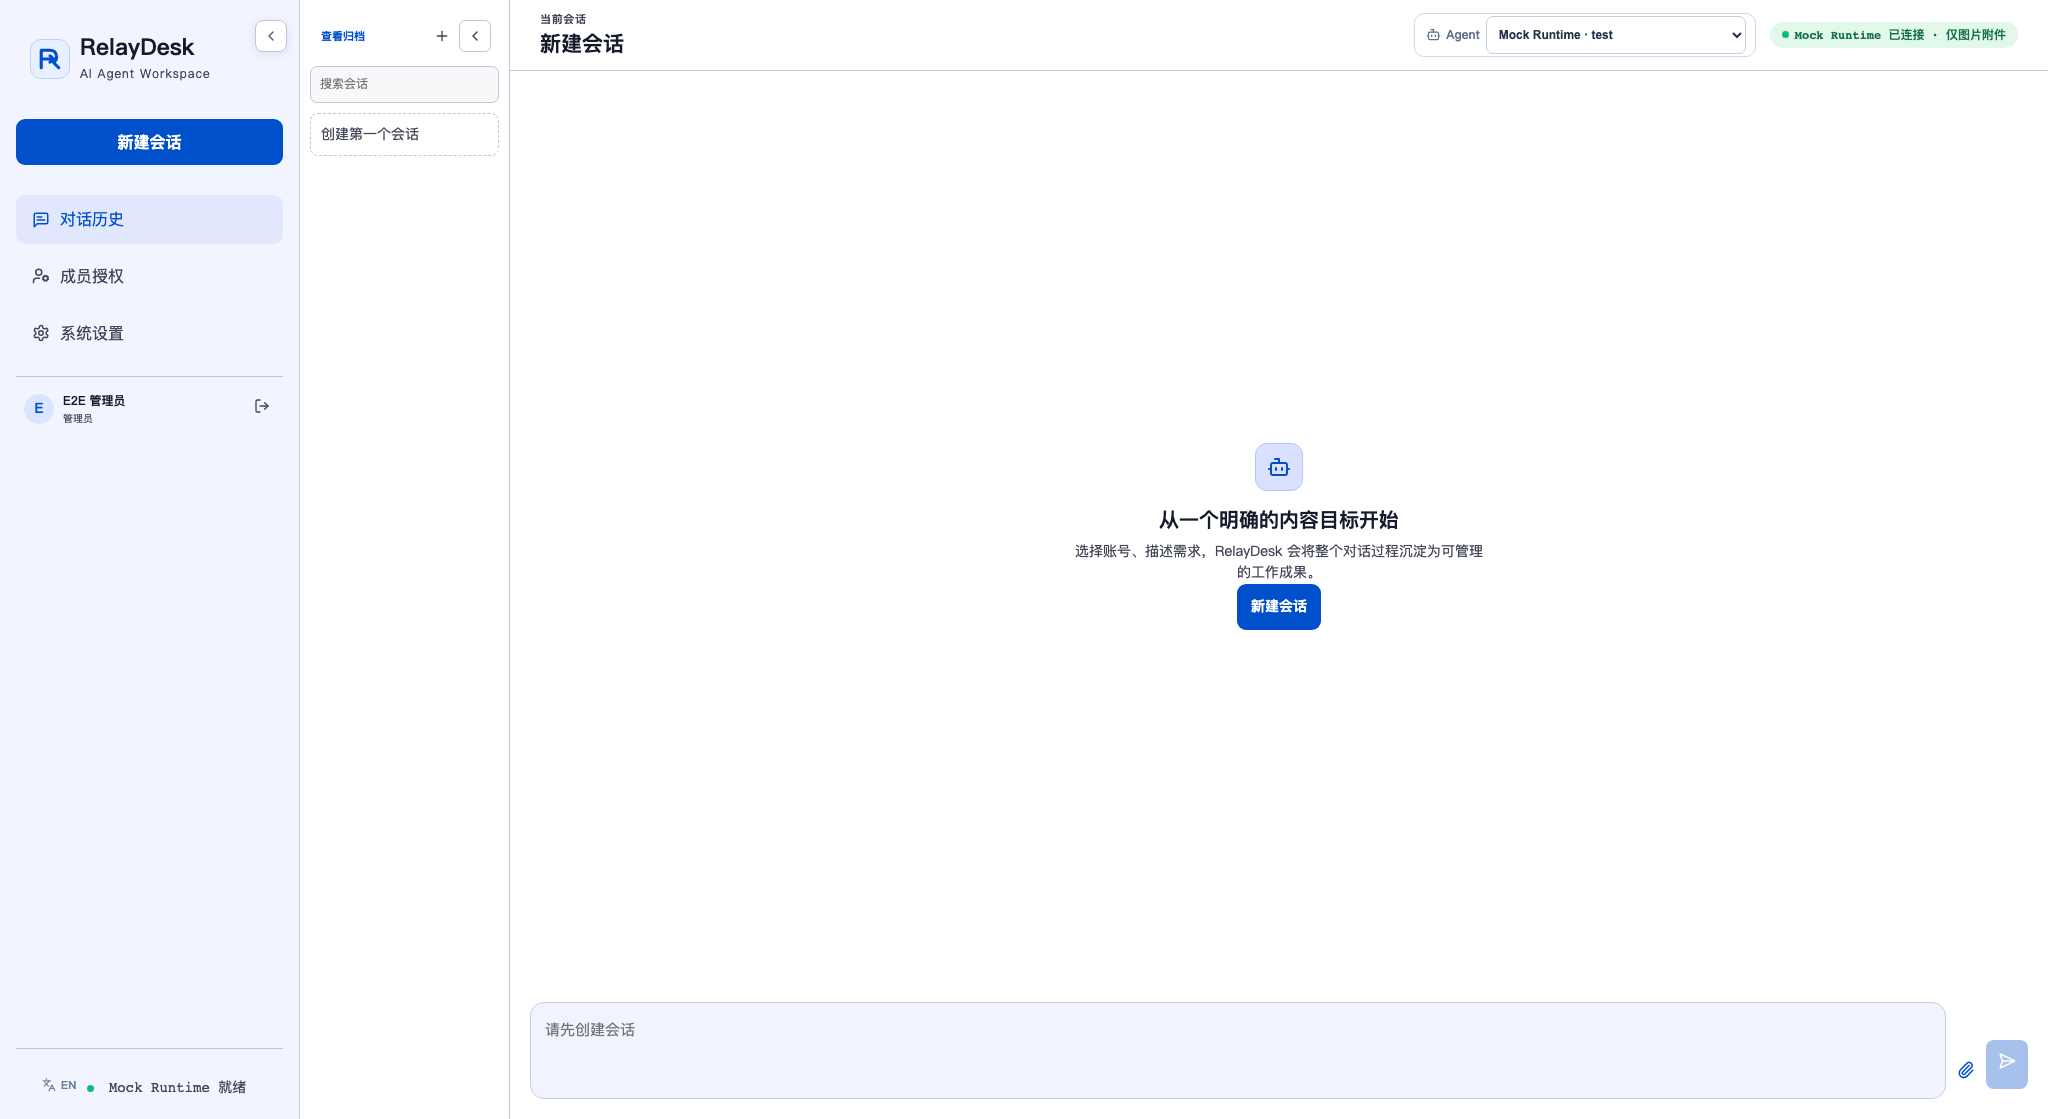
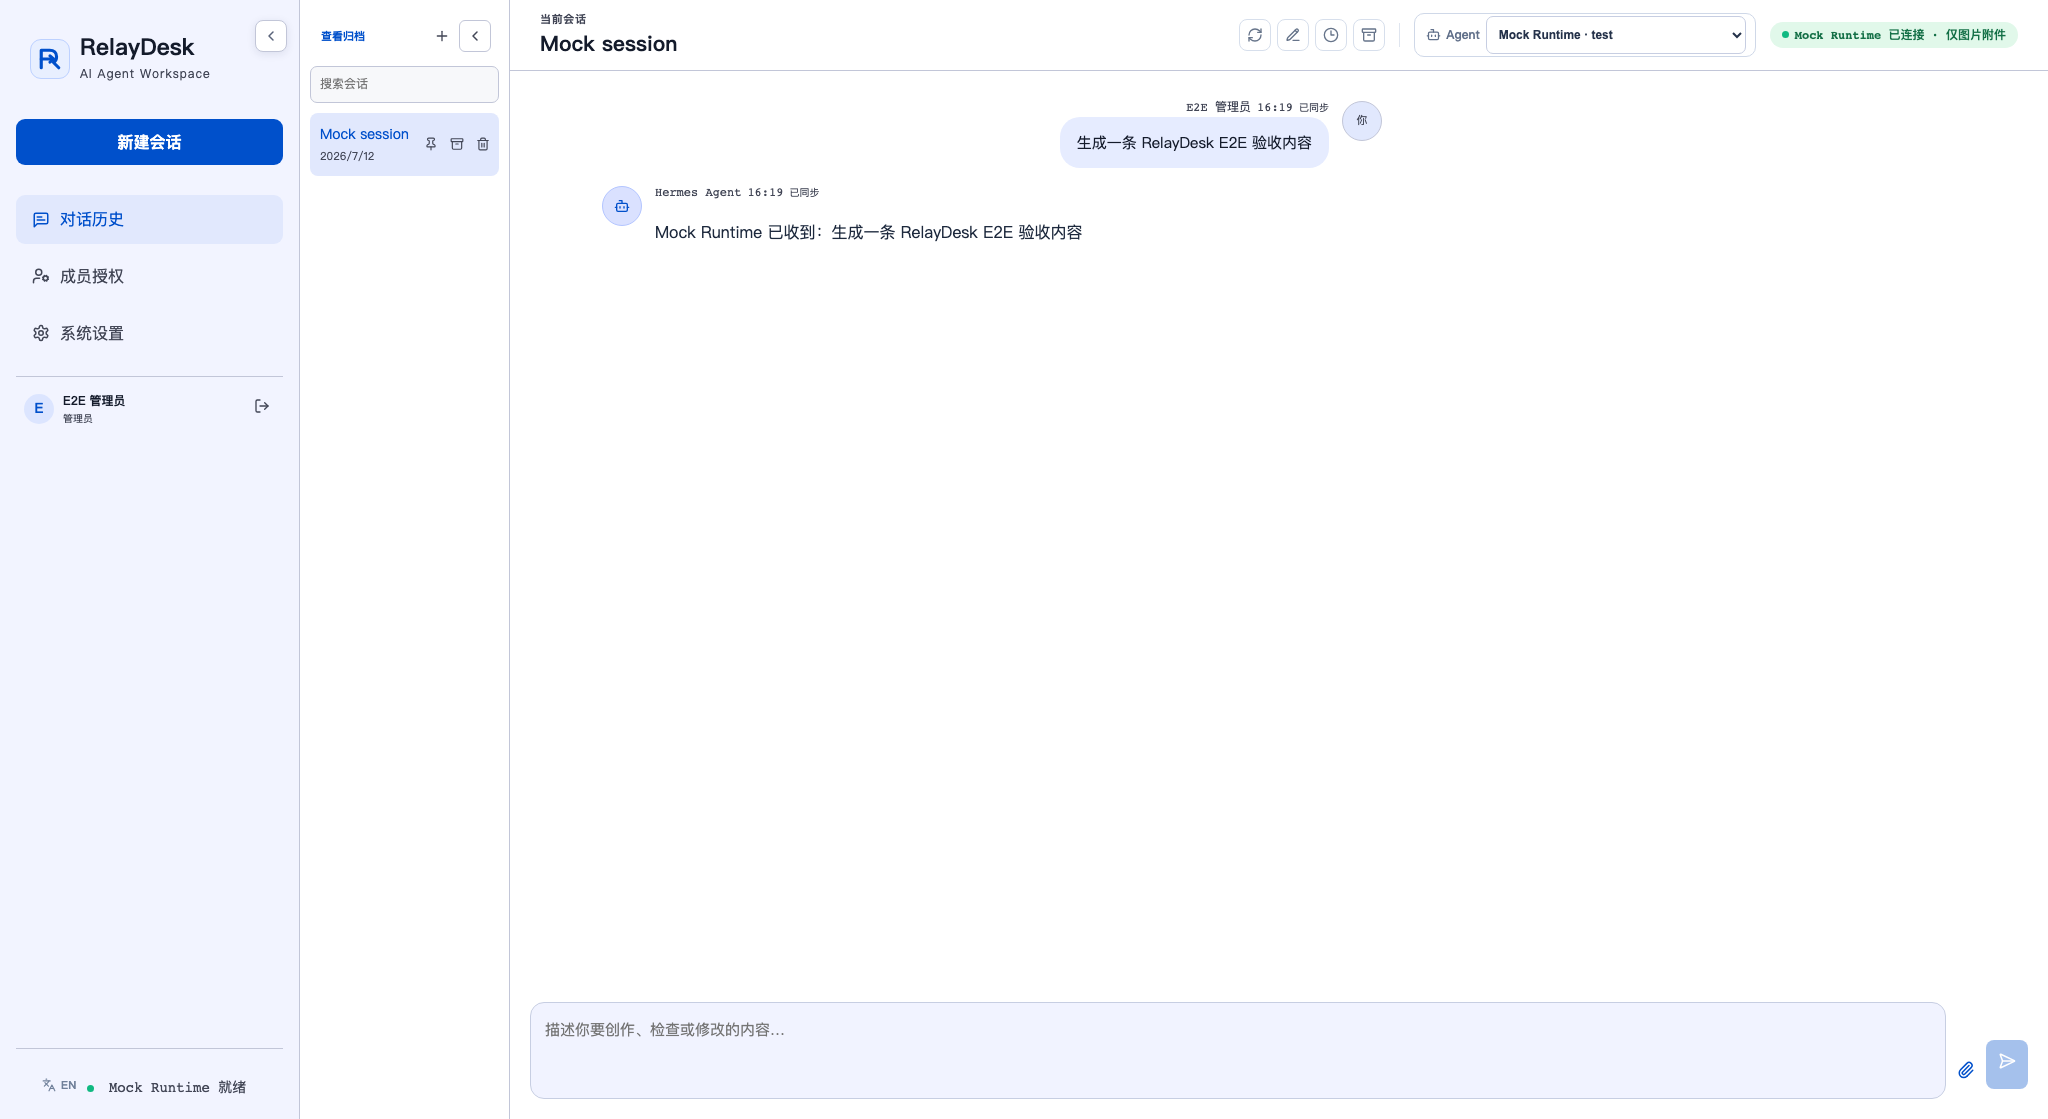
docs: add localized chat showcase screenshots

diff --git a/tests/e2e/core-workflow.spec.ts b/tests/e2e/core-workflow.spec.ts
@@ -10,6 +10,7 @@ test("login page localizes the product story and form together", async ({ page }
   await expect(page.getByRole("heading", { name: "进入工作台" })).toBeVisible();
   await expect(page.getByText("需求评审会议纪要.md")).toBeVisible();
   await expect(page.getByLabel("成员姓名")).toBeVisible();
+  if (process.env.RELAYDESK_CAPTURE_README === "1") await page.screenshot({ path: "docs/images/login-zh.png", fullPage: true });
 });
 
 test("operator can chat, persist history, save content, and search it", async ({ page }) => {
@@ -33,7 +34,6 @@ test("operator can chat, persist history, save content, and search it", async ({
   expect(historyRail).toBeTruthy();
   expect(chatCanvas).toBeTruthy();
   expect(historyRail!.x).toBeLessThan(chatCanvas!.x);
-  if (process.env.RELAYDESK_CAPTURE_README === "1") await page.screenshot({ path: "docs/images/chat-zh.png", fullPage: true });
   await page.getByRole("button", { name: "折叠侧边栏" }).click();
   await expect(page.locator(".sidebar")).toHaveClass(/collapsed/);
   await page.getByRole("button", { name: "展开侧边栏" }).click();
@@ -51,6 +51,7 @@ test("operator can chat, persist history, save content, and search it", async ({
   await composer.fill("生成一条 RelayDesk E2E 验收内容");
   await composer.press("Enter");
   await expect(page.getByText("Mock Runtime 已收到：生成一条 RelayDesk E2E 验收内容")).toBeVisible();
+  if (process.env.RELAYDESK_CAPTURE_README === "1") await page.screenshot({ path: "docs/images/chat-zh.png", fullPage: true });
 
   await page.reload();
   await expect(page.getByText("Mock Runtime 已收到：生成一条 RelayDesk E2E 验收内容")).toBeVisible();